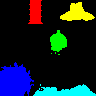
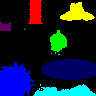
update

Changed region(s): [[0.4062, 0.5938, 1.0, 0.8438], [0.0, 0.2188, 0.125, 0.3438], [0.25, 0.2812, 0.2812, 0.3125]]

diff --git a/map.js b/map.js
@@ -308,7 +308,10 @@ var maps = {
             "0.255.0": "la_capitale",
             "0.0.255": "la_ville_submergee",
             "255.255.0": "l_ile_volcanique",
-            "0.255.255": "les_montagnes_du_sud"
+            "0.255.255": "les_montagnes_du_sud",
+            "100.0.100": "le_chateau_du_roi_Vick",
+            "0.0.100": "le_gouffre",
+            "0.100.100": "l_entree_de_l_antre_du_basilique"
         }
     },
     "la_dimension_des_coroses": {
@@ -322,7 +325,10 @@ var maps = {
             "0.255.0": "la_capitale",
             "0.0.255": "la_ville_submergee",
             "255.255.0": "l_ile_volcanique",
-            "0.255.255": "les_montagnes_du_sud"
+            "0.255.255": "les_montagnes_du_sud",
+            "100.0.100": "le_chateau_du_roi_Vick",
+            "0.0.100": "le_gouffre",
+            "0.100.100": "la_dimension_des_coroses_v2"
         }
     },
     "la_lune_de_sang": {
@@ -406,6 +412,15 @@ var maps = {
         },
         "path": {
             "255.0.0": "neviss"
+        }
+    },
+    "le_chateau_du_roi_Vick": {
+        "infos": {
+            "title": "Le Chateau du roi Vick",
+            "description": "",
+            "frames": "1",
+        },
+        "path": {
         }
     },
     "le_cimetiere": {
